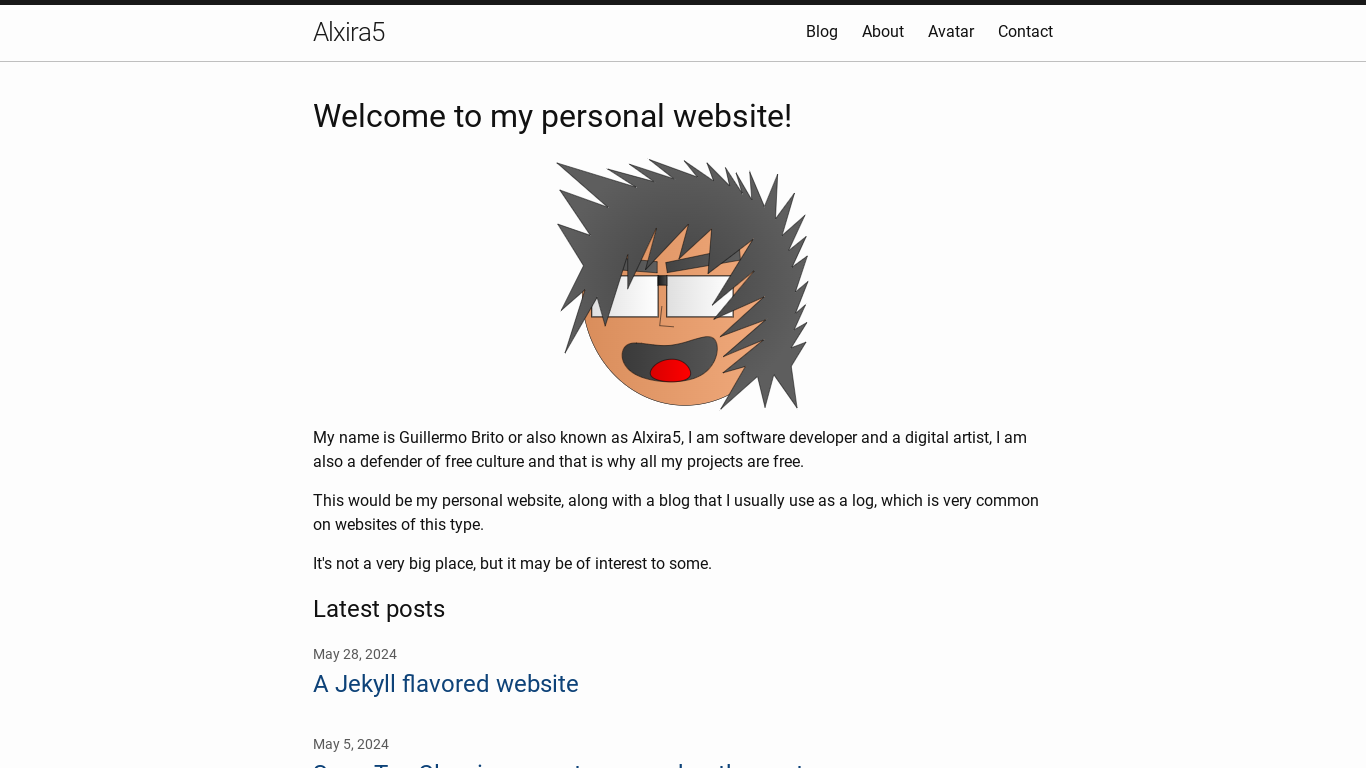
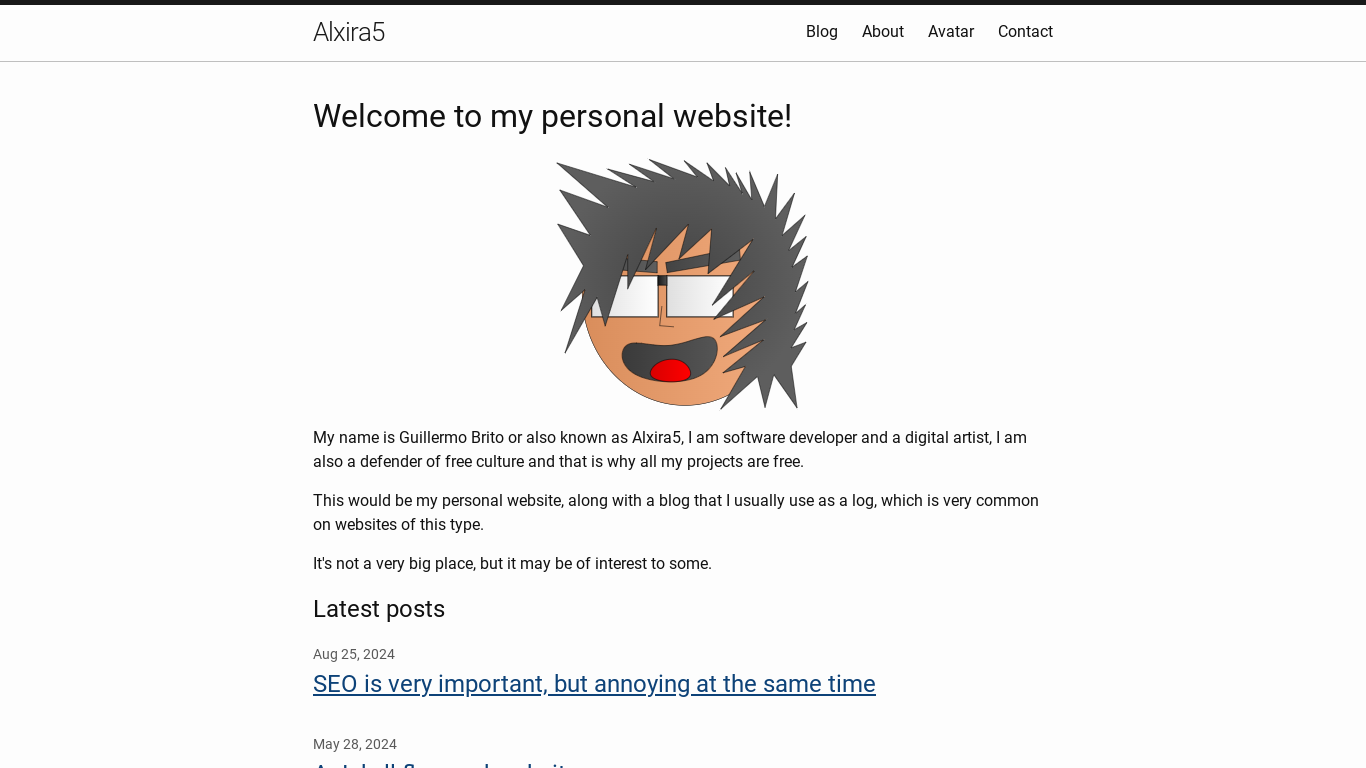
Minor last minute fixes

Changed region(s): [[0.2152, 0.8438, 0.6457, 0.9062], [0.246, 0.9688, 0.3075, 1.0]]

diff --git a/_sass/minima/style.scss b/_sass/minima/style.scss
@@ -20,7 +20,7 @@ $lm-background-color:      #fdfdfd !default;
 $lm-code-background-color: #eeeeff !default;
 
 $lm-link-base-color:       #0D4278 !default;
-$lm-link-visited-color:    darken($lm-link-base-color, 15%) !default;
+$lm-link-visited-color:    darken($lm-link-base-color, 10%) !default;
 $lm-link-hover-color:      $lm-text-color !default;
 
 $lm-border-color-01:       $lm-brand-color-light !default;
@@ -113,8 +113,8 @@ $dm-text-color:            #bbbbbb !default;
 $dm-background-color:      #181818 !default;
 $dm-code-background-color: #212121 !default;
 
-$dm-link-base-color:       #79b8ff !default;
-$dm-link-visited-color:    $dm-link-base-color !default;
+$dm-link-base-color:       #5CA6FF !default;
+$dm-link-visited-color:    darken($dm-link-base-color, 10%) !default;
 $dm-link-hover-color:      $dm-text-color !default;
 
 $dm-border-color-01:       $dm-brand-color-dark !default;

diff --git a/_includes/head.html b/_includes/head.html
@@ -11,7 +11,7 @@
   <link rel="icon" type="image/png" sizes="32x32" href="{{ "/assets/favicons/favicon-32x32.png" | relative_url }}">
   <link rel="icon" type="image/png" sizes="16x16" href="{{ "/assets/favicons/favicon-16x16.png" | relative_url }}"">
   <link rel="manifest" href="{{ "/site.webmanifest" | relative_url }}">
-  <link rel="mask-icon" href="{{ "/safari-pinned-tab.svg" | relative_url }}" color="#5bbad5">
+  <link rel="mask-icon" href="{{ "/assets/favicons/safari-pinned-tab.svg" | relative_url }}" color="#5bbad5">
   <meta name="msapplication-TileColor" content="#da532c">
   <meta name="theme-color" content="#ffffff">
 </head>

diff --git a/_sass/minima/_layout.scss b/_sass/minima/_layout.scss
@@ -231,6 +231,7 @@
 
 .post-link {
   display: block;
+  text-decoration: underline;
   @include relative-font-size(1.5);
 }
 
